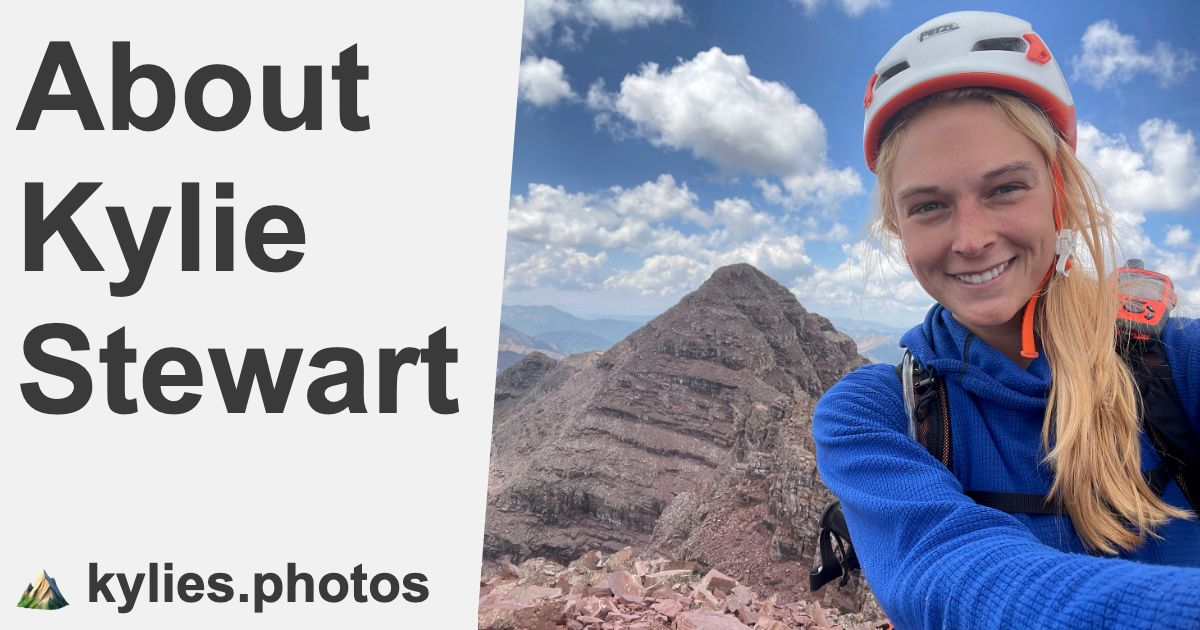
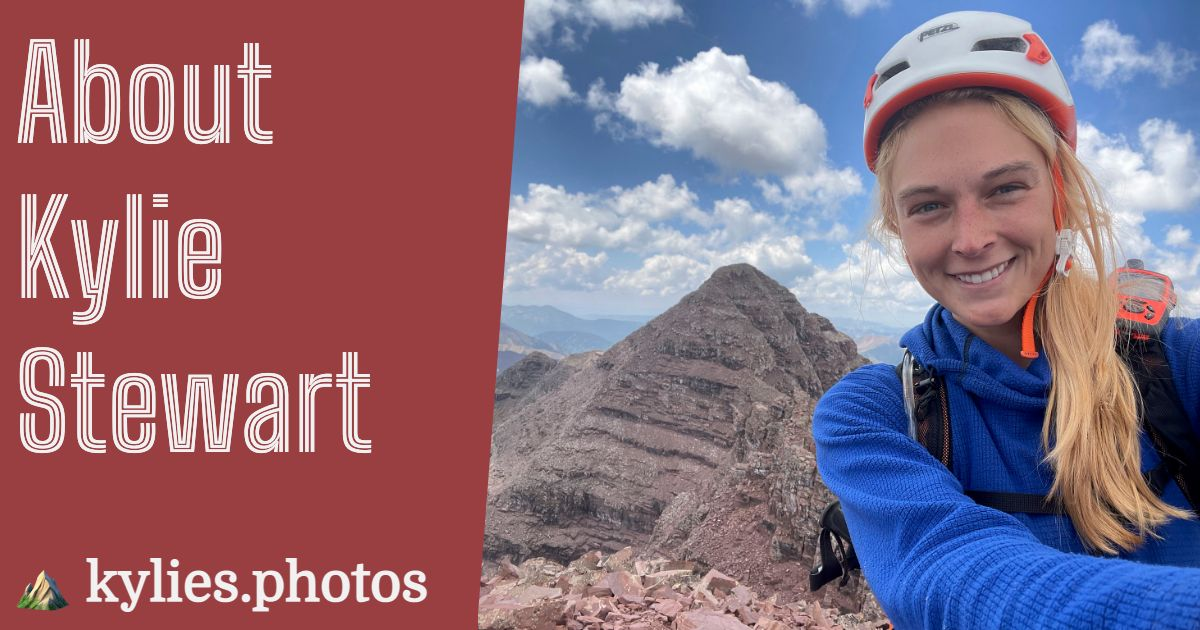
Pull baseName from social data

diff --git a/pages/blog.js b/pages/blog.js
@@ -2,7 +2,7 @@ import Category from '../components/Category'
 import FormattedDate from '../components/Date'
 import Layout from '../components/Layout'
 import Link from 'next/link'
-import { CATEGORY_TYPE, METADATA } from '../utils/constants'
+import { CATEGORY_TYPE, COLORS, METADATA } from '../utils/constants'
 import { getSortedPostsData } from '../utils/posts'
 import { socialImage } from '../utils/social-image'
 import { useEffect, useState } from 'react'
@@ -11,8 +11,6 @@ import { useRouter } from 'next/router'
 import categoryStyles from '../components/Category.module.css'
 import styles from '../styles/blog.module.css'
 import utilStyles from '../styles/utils.module.css'
-
-export const baseName = 'blog'
 
 export default function BlogLandingPage({ allPostsData }) {
   const [viewCategory, setCategory] = useState(CATEGORY_TYPE.ALL)
@@ -95,10 +93,15 @@ export async function getStaticProps() {
   return {
     props: {
       allPostsData,
-      baseName,
       description,
       title,
-      ...(await socialImage({ title, description, baseName })),
+      ...(await socialImage({
+        title,
+        description,
+        baseName: 'blog',
+        bgColor: COLORS.yellow,
+        textColor: COLORS.navy
+      })),
     },
   }
 }

diff --git a/components/CustomHead.js b/components/CustomHead.js
@@ -5,9 +5,15 @@ import { METADATA } from '../utils/constants'
 
 const CustomHead = (pageProps) => {
   const router = useRouter()
-  const routeToPage = `https://${METADATA.SITE_NAME}/${
-    pageProps.baseName !== 'home' ? pageProps.baseName : ''
-  }`
+  const getPageUrl = () => {
+    if (pageProps.baseName.indexOf('post-') === 0) {
+      return `https://${METADATA.SITE_NAME}/${pageProps.postData.category}/${pageProps.postData.id}`
+    } else if (pageProps.baseName === 'home') {
+      return `https://${METADATA.SITE_NAME}`
+    }
+
+    return `https://${METADATA.SITE_NAME}/${pageProps.baseName}`
+  }
 
   return (
     <Head>
@@ -68,7 +74,7 @@ const CustomHead = (pageProps) => {
       <meta property="og:image:width" content={FacebookOpenGraph.width} />
       <meta property="og:image:height" content={FacebookOpenGraph.height} />
       <meta property="og:type" content="website" />
-      <meta property="og:url" content={routeToPage} />
+      <meta property="og:url" content={getPageUrl()} />
 
       <meta property="og:title" content={pageProps.title} />
       <title>{`${pageProps.title} · ${METADATA.SITE_NAME}`}</title>

diff --git a/pages/index.js b/pages/index.js
@@ -1,7 +1,7 @@
 import Card from '../components/Card'
 import Layout from '../components/Layout'
 import ResponsiveImage from '../components/ResponsiveImage'
-import { METADATA } from '../utils/constants'
+import { COLORS, METADATA } from '../utils/constants'
 import { getRecentPosts } from '../utils/posts'
 import { socialImage } from '../utils/social-image'
 
@@ -13,8 +13,6 @@ import MobileLanderBottom from '../public/photos/Mlander_bottom.png'
 
 import styles from '../components/Layout.module.css'
 import utilStyles from '../styles/utils.module.css'
-
-const baseName = 'home'
 
 const HomePage = ({ featuredPosts }) => (
   <Layout home>
@@ -50,11 +48,15 @@ export async function getStaticProps() {
 
   return {
     props: {
-      baseName,
+      title,
       description,
       featuredPosts,
-      title,
-      ...(await socialImage({ title, description, baseName })),
+      ...(await socialImage({
+        title,
+        description,
+        baseName: 'home',
+        bgColor: COLORS.blue,
+      })),
     },
   }
 }

diff --git a/pages/[category]/[id].js b/pages/[category]/[id].js
@@ -3,6 +3,7 @@ import Category from '../../components/Category'
 import FormattedDate from '../../components/Date'
 import Layout from '../../components/Layout'
 import ReactMarkdown from 'react-markdown'
+import { COLORS } from '../../utils/constants'
 import { getAllPostIds, getPostData, getSortedPostsData } from '../../utils/posts'
 import { socialImage } from '../../utils/social-image'
 
@@ -134,12 +135,13 @@ export async function getStaticProps({ params }) {
       postIds,
       title,
       description,
-      baseName: `${params.category}/${params.id}`,
       ...(await socialImage({
         title,
         description,
         previewImgUrl: postData.previewImgUrl,
         baseName: `post-${params.id}`,
+        bgColor: postData.bgColor ? postData.bgColor : COLORS.teal,
+        textColor: postData.textColor ? postData.textColor : COLORS.white,
       })),
     },
   }

diff --git a/pages/climb-log.js b/pages/climb-log.js
@@ -13,6 +13,7 @@ import {
   ALL_MONTHS,
   AREA_TYPE,
   CATEGORY_TYPE,
+  COLORS,
   METADATA,
   PREVIEW_IMAGES,
   TABLE_SORT_ORDER,
@@ -22,8 +23,6 @@ import { fetchAllClimbs } from '../utils/notion'
 import { socialImage } from '../utils/social-image'
 
 import tableStyles from '../components/Table.module.css'
-
-const baseName = 'climb-log'
 
 const ClimbLog = ({ allClimbs }) => {
   const [metric, setMetric] = useState(false)
@@ -278,13 +277,13 @@ export async function getStaticProps() {
     props: {
       allClimbs: response,
       title,
-      baseName,
       description,
       ...(await socialImage({
         title,
         description,
         previewImgUrl: PREVIEW_IMAGES.CLIMB_LOG_IMAGE,
-        baseName,
+        baseName: 'climb-log',
+        bgColor: COLORS.navy,
       })),
     },
   }

diff --git a/pages/about.js b/pages/about.js
@@ -8,8 +8,6 @@ import { socialImage } from '../utils/social-image'
 import styles from '../styles/about.module.css'
 import utilStyles from '../styles/utils.module.css'
 
-const baseName = 'about'
-
 const AboutPage = () => (
   <Layout>
     <h1 className={`${utilStyles.headingXl} ${utilStyles.centerText}`}>
@@ -83,13 +81,13 @@ export async function getStaticProps() {
   return {
     props: {
       title,
-      baseName,
       description,
       ...(await socialImage({
         title,
         description,
         previewImgUrl: PREVIEW_IMAGES.ABOUT_IMAGE,
-        baseName,
+        baseName: 'about',
+        bgColor: '#993e41',
       })),
     },
   }

diff --git a/pages/404.js b/pages/404.js
@@ -6,8 +6,6 @@ import { socialImage } from '../utils/social-image'
 
 import utilStyles from '../styles/utils.module.css'
 
-const baseName = '404'
-
 const NotFoundPage = () => {
   return (
     <Layout>
@@ -29,12 +27,12 @@ export async function getStaticProps() {
     props: {
       title,
       description,
-      baseName,
       ...(await socialImage({
         title,
         description,
         previewImgUrl: PREVIEW_IMAGES.NOT_FOUND_IMAGE,
-        baseName,
+        baseName: '404',
+        bgColor: '#3381cc',
       })),
     },
   }

diff --git a/utils/constants.js b/utils/constants.js
@@ -49,6 +49,7 @@ export const COLORS = {
   blue: '#2078ae',
   grey: '#3a3a3a',
   navy: '#11162b',
+  teal: '#285f76',
   white: '#f1f1f1',
   yellow: '#bc8d02',
 }
